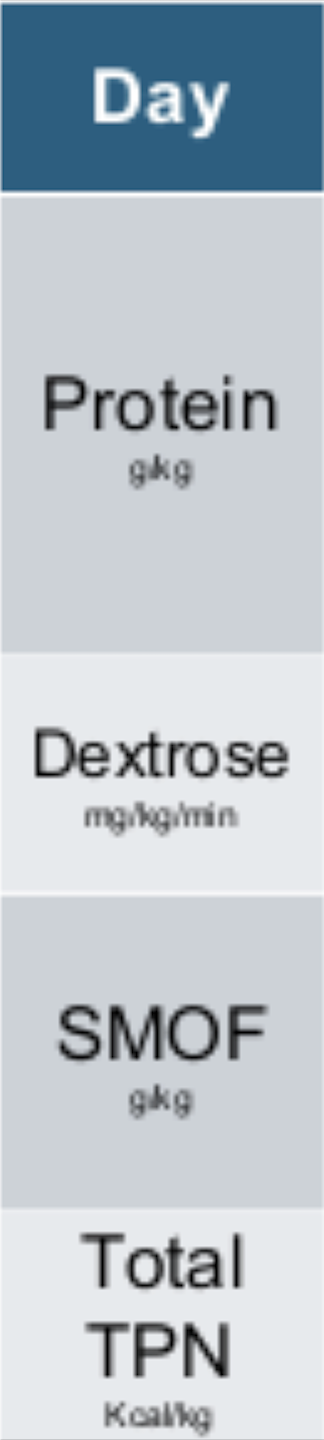
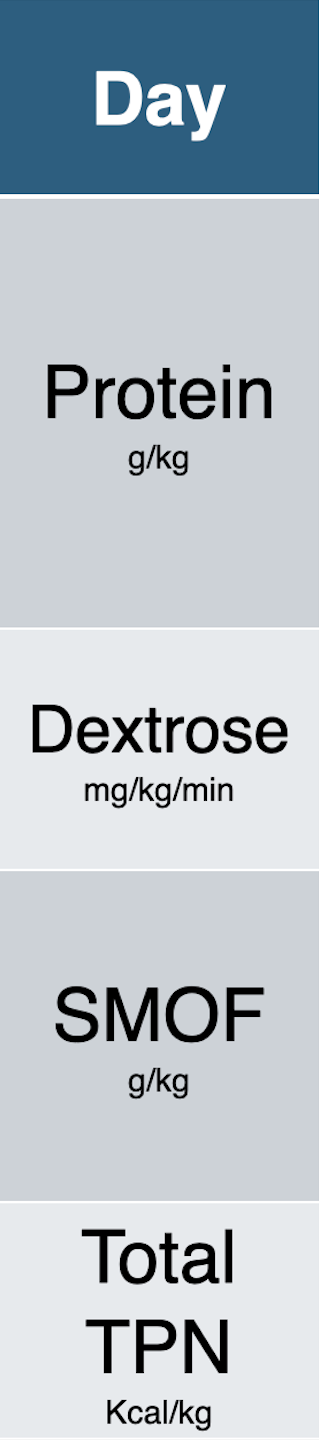
updated image resolution for trophic feeds and made ui changes

Changed region(s): [[0.0, 0.0, 1.0, 1.0], [0.1129, 0.25, 0.8746, 0.3438], [0.1693, 0.6875, 0.8464, 0.7812]]

diff --git a/src/ExpandablePanel.css b/src/ExpandablePanel.css
@@ -9,7 +9,7 @@
     text-align: left;
     padding: 10px;
     font-size: 16px;
-    background-color: #e0e0e0; /* Light grey for unselected state */
+    background-color: #0057a9; /* Light grey for unselected state */
     border: none;
     cursor: pointer;
     outline: none; /* Removes focus outline */
@@ -17,7 +17,7 @@
   }
   
   .expandable-panel-button:hover {
-    background-color: #cccccc; /* Darker grey on hover for better interaction feedback */
+    background-color: #008ef3; /* Darker grey on hover for better interaction feedback */
   }
   
   /* Icon before the title, rotates when open */

diff --git a/src/ParameterForm.js b/src/ParameterForm.js
@@ -27,7 +27,7 @@ function ParameterForm({ onParametersSubmit }) {
             setIsLessThan36Weeks(true);
           }}
         />
-        Less than 36 Weeks
+        &lt;/=35w
       </label>
       <div></div>
       <label>
@@ -41,7 +41,7 @@ function ParameterForm({ onParametersSubmit }) {
             setIsLessThan36Weeks(false);
           }}
         />
-        More than 36 Weeks
+        &gt;/= 36w
       </label>
 
       <input
